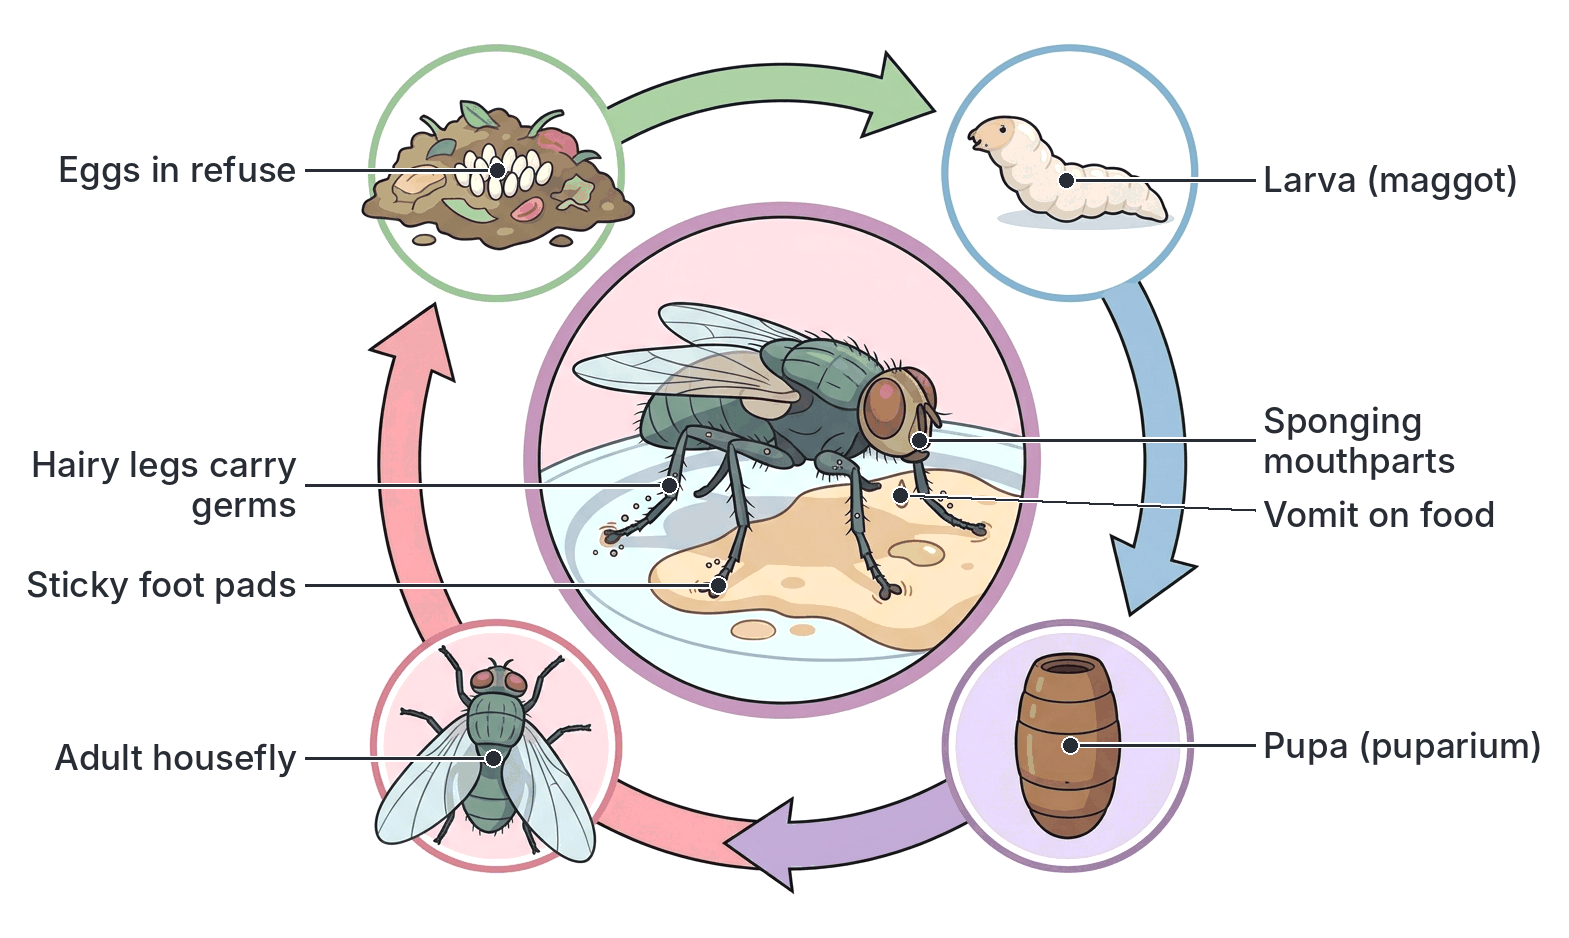
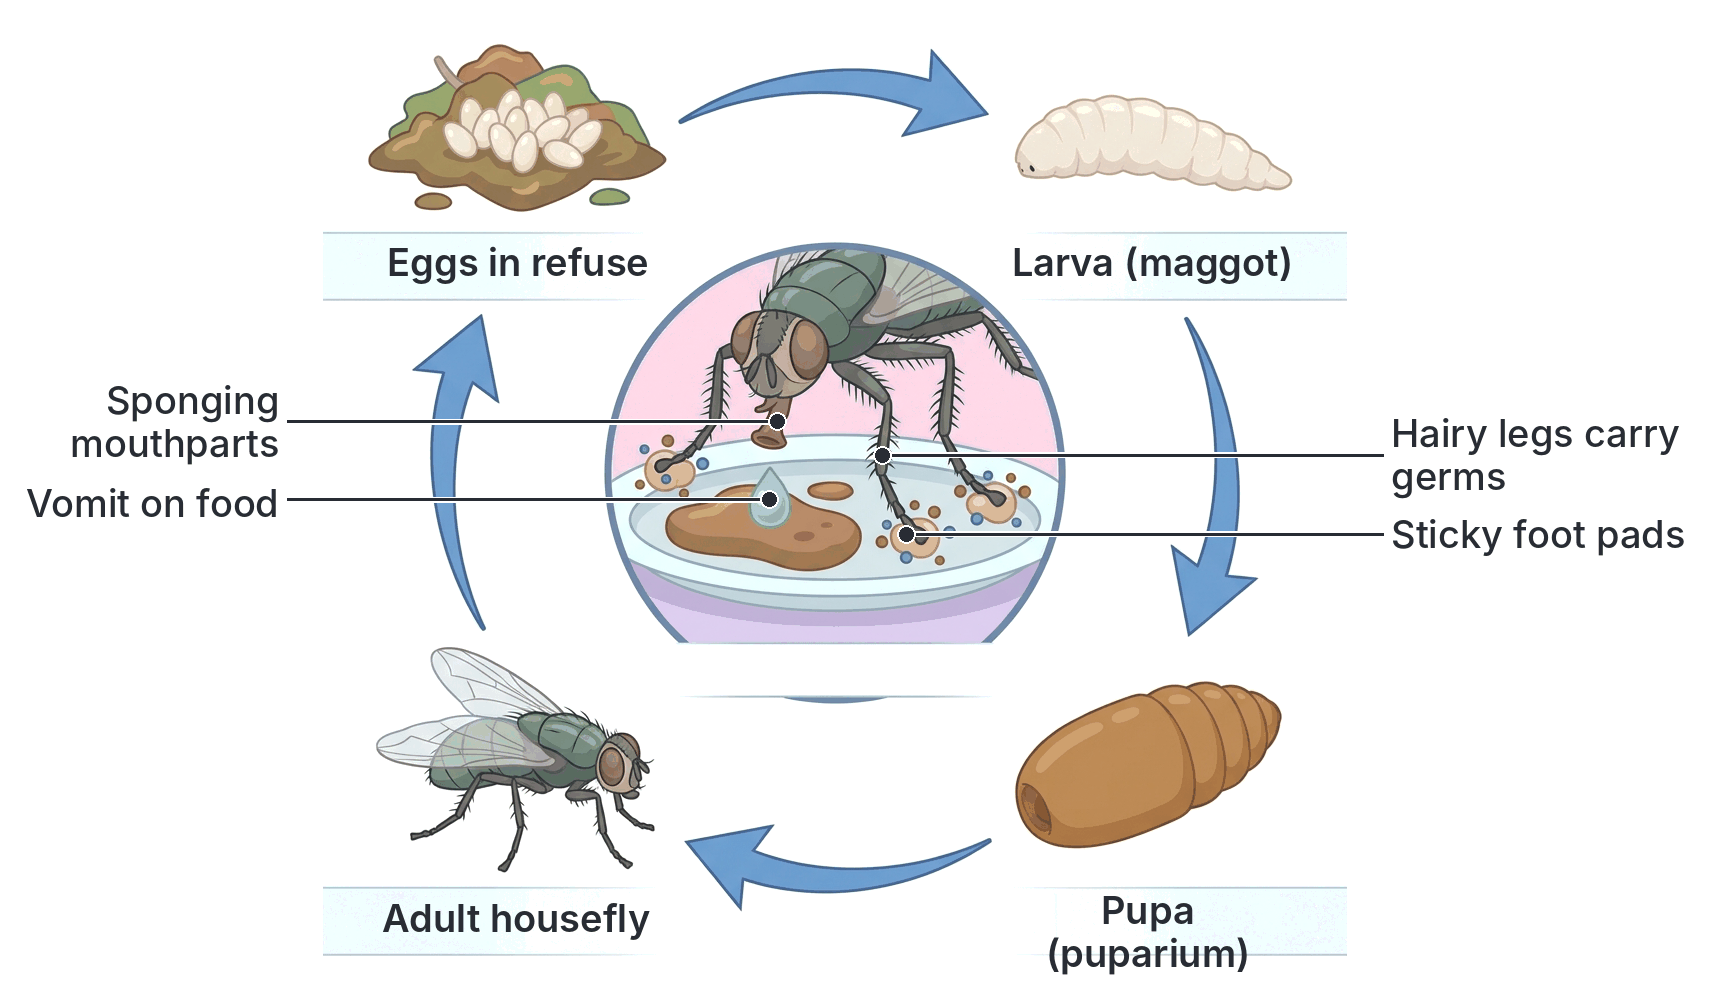
Redo pass biology C7a-diseases: 2 regenerated, 1 removed (placeholder restored)
Claude-Session: https://claude.ai/code/session_01AuzkMMKKHsgCscpXnvCsGG

diff --git a/subjects/biology/C7a-diseases.md b/subjects/biology/C7a-diseases.md
@@ -230,7 +230,7 @@ The whole cycle from egg to adult takes about **7–14 days** in warm weather (f
 | Wings | Often **spotted** (dark patches) | Plain | Plain; body with **white stripes** on black |
 | Biting time | Mainly at night | Mainly at night | Mainly by **day** |
 
-![Diagram illustrating the life cycle of the Anopheles mosquito, showing the egg stage with inset, larva, pupa, emerging adult, and resting adult.](images/C7a-02-anopheles-mosquito-life-cycle.png)
+[IMAGE: Life cycle of the Anopheles mosquito arranged in a circle with arrows, with a horizontal water surface line through the lower half of the diagram. 1: small boat-shaped eggs floating singly on the water surface, each with side floats (with a magnified inset of one egg). 2: a larva lying flat and parallel just below the water surface. 3: a comma-shaped pupa with two small breathing trumpets touching the surface. 4: an adult female mosquito emerging from the pupal case. 5: an adult female resting on a surface with her body tilted at an angle, head down. Labels: "Eggs laid singly", "Float", "Larva (parallel to surface)", "Spiracle", "Pupa", "Breathing trumpet", "Adult emerging", "Adult female (rests at an angle)", "Water surface". Clean flat textbook style, white background.]
 
 ![Comparison of Anopheles and Culex mosquitoes showing differences in their eggs, larvae resting positions in water, and adult resting postures on a wall.](images/C7a-03-anopheles-culex-comparison.png)
 
